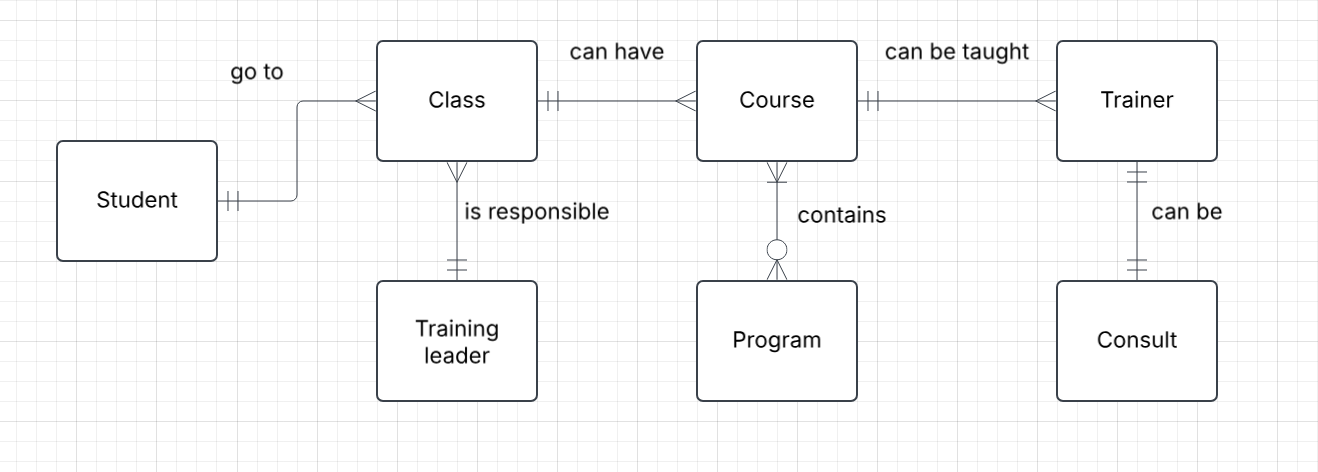
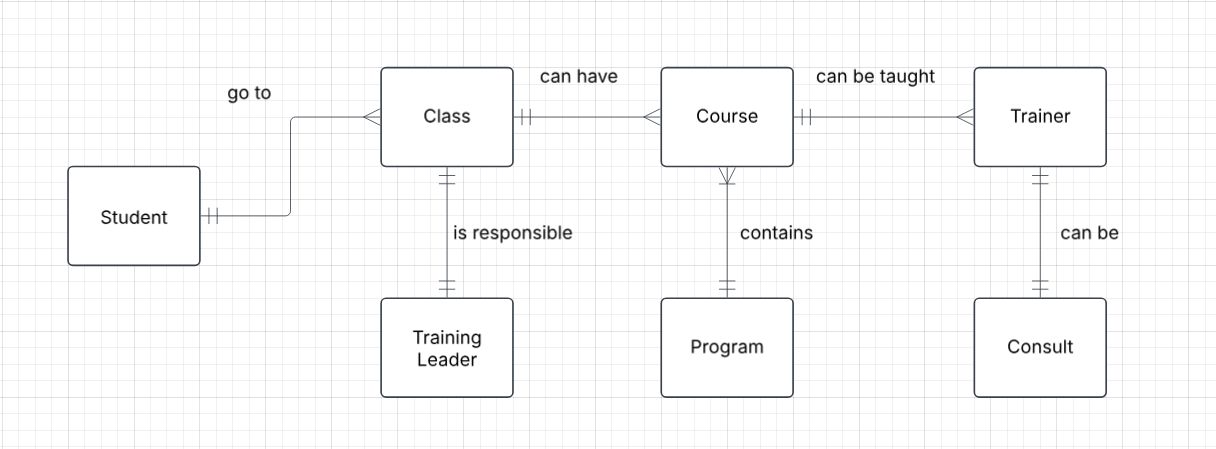
fixes

diff --git a/yh_labb/yhco.md b/yh_labb/yhco.md
@@ -1,29 +1,17 @@
 ## Uppgift 0 - datamodellering 
 
-b) Conceptual Model 
+b, c) Conceptual model 
 
 <img src="assets/conceptual_model.png">
 
 
 
-c) Logical Model 
+d) Logical model 
 
 <img src="assets/logical_model.png">
 
 
 
+e) Physical model
 
-**Entities** 
-
-Student(student_id, first_name, last_name, personal_number, email)
-
-Course(course_id, name, code)
-
-Class(class_id, name, program_id, starting_year)
-
-
-
-
-
-
-
+- see yh_tables.dbml
